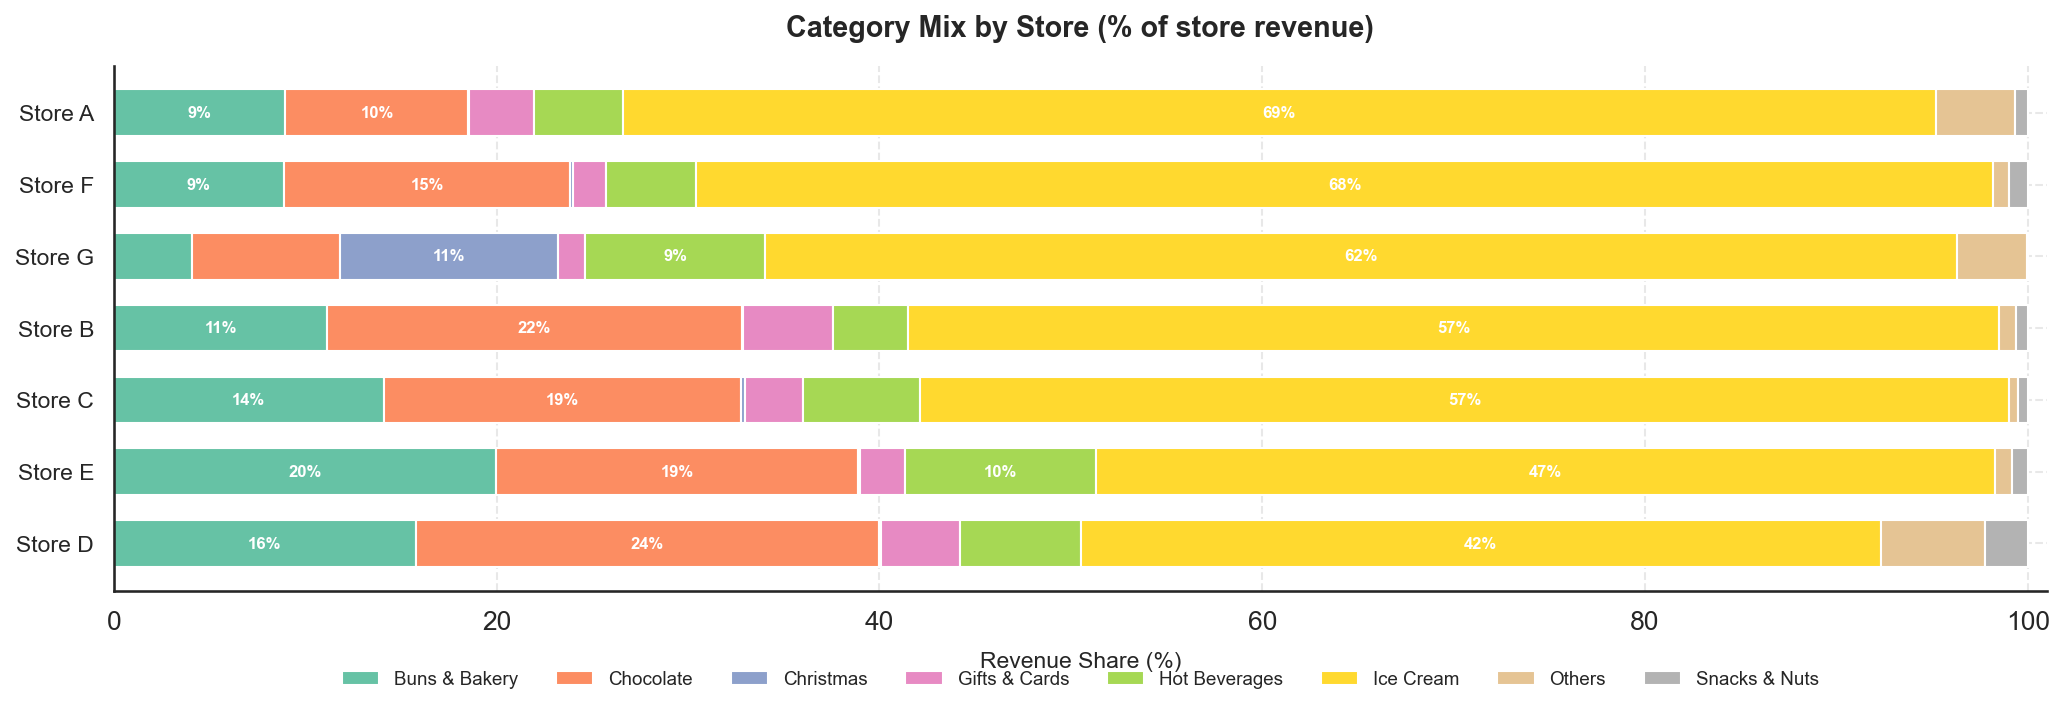
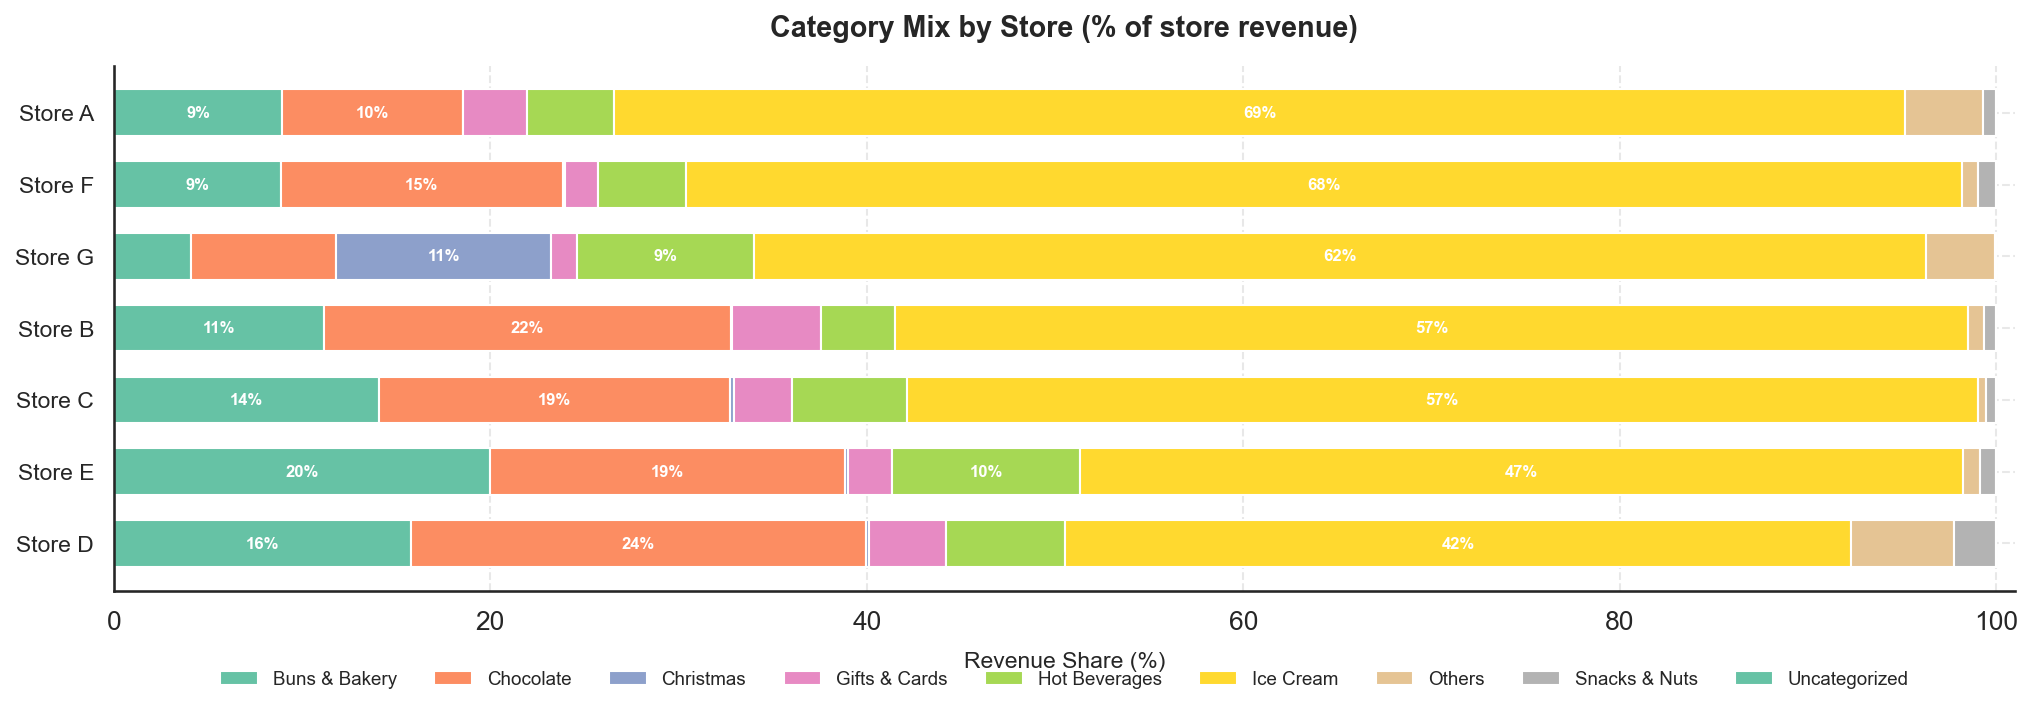
Remove hardcoded client identifiers; derive anonymization terms at runtime
- Replace _strip_prefix (hardcoded brand string) with _make_label_fn: a
  generic helper that strips the common word-prefix from store names by
  computing it from the data, with no brand name in the source code.
- Remove 'Social Foodies cotton bag' from product_categories.csv; those
  rows now fall to Uncategorized, and category_seasonality explicitly
  excludes Uncategorized so the 8-category pivot shape is preserved.
- Tests no longer hardcode 'Social Foodies': forbidden terms are derived
  at runtime from df["store_name"] (git-ignored data).
- Verification script derives real-name terms from data rather than a
  hardcoded suburb list.
- Regenerate three affected figures with no identifiers.

git grep confirms zero hits for all real client/store identifiers.

diff --git a/src/eda.py b/src/eda.py
@@ -83,8 +83,22 @@ def _add_local_time(df: pd.DataFrame) -> pd.DataFrame:
     return df
 
 
-def _strip_prefix(name: str) -> str:
-    return name.replace("the client ", "")
+def _make_label_fn(store_names: list[str]):
+    """
+    Return a function that strips the common word-prefix shared by all store names.
+    Entirely data-driven — no brand string is hardcoded here.
+
+    E.g. if all names share the first two words, the returned fn drops those two
+    words and returns the remainder as the short label.
+    """
+    split = [n.split() for n in store_names if n]
+    prefix_len = 0
+    for words in zip(*split):
+        if len(set(words)) == 1:
+            prefix_len += 1
+        else:
+            break
+    return lambda name: " ".join(name.split()[prefix_len:]) or name
 
 
 # ── Top-products ──────────────────────────────────────────────────────────────
@@ -496,7 +510,8 @@ def category_seasonality(
     """
     df = _add_local_time(df)
     long = (
-        df.groupby(["name_category", "month_period"], as_index=False)["revenue"]
+        df[df["name_category"] != "Uncategorized"]
+        .groupby(["name_category", "month_period"], as_index=False)["revenue"]
         .sum()
     )
     pivot = (
@@ -593,7 +608,8 @@ def revenue_by_store(
         # Drop real store names from anonymized output to prevent accidental exposure
         return agg[["store_label", "revenue", "order_count", "avg_order_value"]]
     else:
-        agg["store_label"] = agg["store_name"].apply(_strip_prefix)
+        shorten = _make_label_fn(agg["store_name"].tolist())
+        agg["store_label"] = agg["store_name"].apply(shorten)
         return agg[["store_name", "store_label", "revenue", "order_count", "avg_order_value"]]
 
 
@@ -661,7 +677,9 @@ def store_category_mix(
     if anonymize:
         sub["store_label"] = sub["store_name"].map(labels)
     else:
-        sub["store_label"] = sub["store_name"].apply(_strip_prefix)
+        real_names = [n for n in sub["store_name"].unique()]
+        shorten = _make_label_fn(real_names)
+        sub["store_label"] = sub["store_name"].apply(shorten)
 
     long = (
         sub.groupby(["store_label", "name_category"], as_index=False)["revenue"]

diff --git a/tests/test_eda.py b/tests/test_eda.py
@@ -212,7 +212,9 @@ def test_category_seasonality_shape(df):
 
 def test_category_seasonality_sums_to_total(df):
     pivot = category_seasonality(df, anonymize=False)
-    assert abs(pivot.values.sum() - df["revenue"].sum()) < 1.0
+    # Uncategorized rows are intentionally excluded from the seasonality pivot
+    known_rev = df[df["name_category"] != "Uncategorized"]["revenue"].sum()
+    assert abs(pivot.values.sum() - known_rev) < 1.0
 
 
 def test_plot_category_seasonality_saves_file(df):
@@ -296,16 +298,21 @@ def test_anonymized_store_labels_are_a_to_g(df):
 
 
 def test_anonymized_store_no_real_names(df):
+    # Derive forbidden terms at runtime from the git-ignored data — no brand string hardcoded
+    real_names = {n for n in df["store_name"].dropna().unique() if n != "Unknown Store"}
     tbl = revenue_by_store(df, anonymize=True)
-    assert not any("the client" in lbl for lbl in tbl["store_label"])
-    # anonymized output must not contain a store_name column (real names must not be exposed)
+    for real in real_names:
+        assert real not in tbl["store_label"].values, f"Real store name leaked: {real!r}"
+    # anonymized output must not expose a store_name column
     assert "store_name" not in tbl.columns
 
 
 def test_anonymized_category_mix_store_labels(df):
+    real_names = {n for n in df["store_name"].dropna().unique() if n != "Unknown Store"}
     pivot = store_category_mix(df, anonymize=True)
+    for real in real_names:
+        assert real not in pivot.index, f"Real store name in mix index: {real!r}"
     assert all(idx.startswith("Store ") for idx in pivot.index)
-    assert not any("the client" in idx for idx in pivot.index)
 
 
 def test_store_labels_a_is_highest_revenue(df):

diff --git a/notebooks/check_anonymized.py b/notebooks/check_anonymized.py
@@ -68,10 +68,14 @@ for p in sorted(FIGURES_DIR.glob("*.png")):
     print(f"  {p.name:<45} ({p.stat().st_size // 1024} KB)")
 
 print()
-print("=== Confirming no store suburb names in PROJECT_BRIEF.md ===")
-flagged = [w for w in ["[location]","[location]","[location]","[location]","Vedb","rrebro","sterbro"]
-           if w in Path("PROJECT_BRIEF.md").read_text(encoding="utf-8")]
+print("=== Confirming no real store identifiers in PROJECT_BRIEF.md ===")
+brief_text = Path("PROJECT_BRIEF.md").read_text(encoding="utf-8")
+# Derive terms to check from actual data (git-ignored) — nothing hardcoded here
+real_store_names = {n for n in df["store_name"].dropna().unique() if n != "Unknown Store"}
+# Check every word from every real store name (skip short stop-words)
+words_to_check = sorted({w for name in real_store_names for w in name.split() if len(w) > 3})
+flagged = [w for w in words_to_check if w in brief_text]
 if flagged:
-    print(f"  WARNING: found {flagged}")
+    print(f"  WARNING: found real identifier(s) in brief: {flagged}")
 else:
-    print("  OK — no real store/suburb names found in PROJECT_BRIEF.md")
+    print(f"  OK — checked {len(words_to_check)} real-name terms, none found in PROJECT_BRIEF.md")